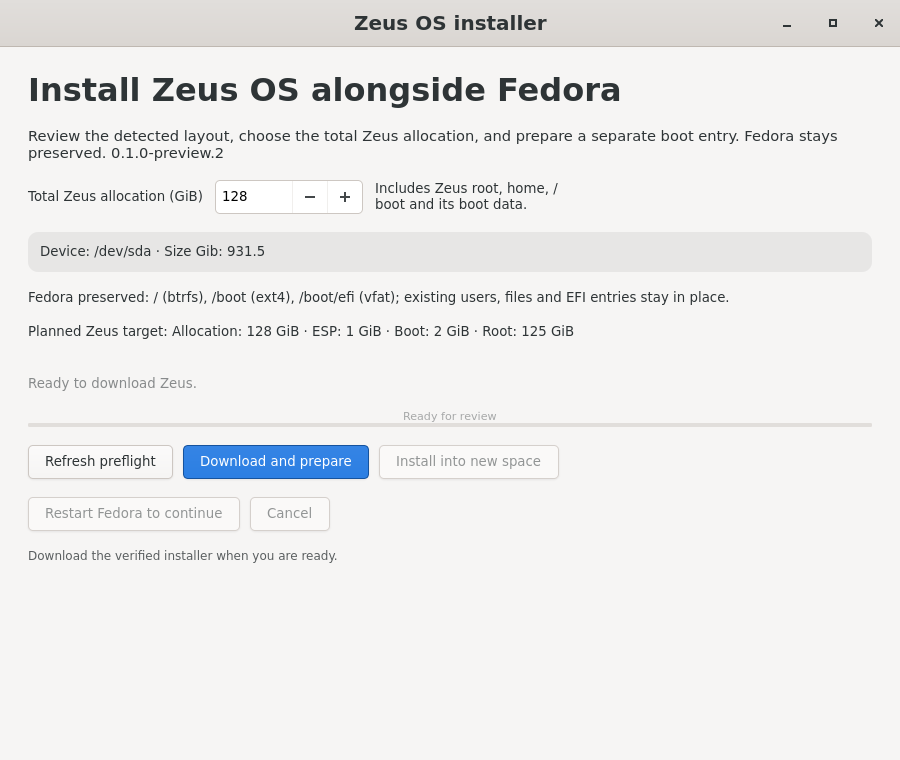
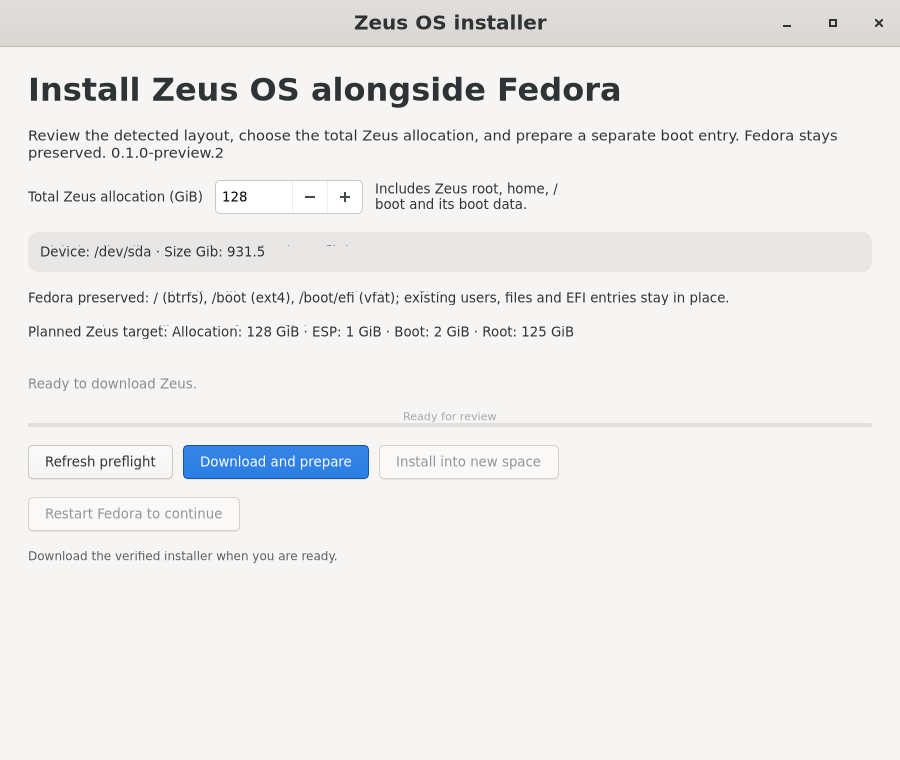
Hide unsupported installer cancellation and require explicit acceptance

diff --git a/installer/zeus_installer/gui.py b/installer/zeus_installer/gui.py
@@ -582,17 +582,28 @@ class InstallerController:
             raise InstallerError(_safe_text(message, "The backend refused to restart."))
         return result
 
+    def supports_cancel(self) -> bool:
+        backend = self.backend_module if self.backend_module is not None else _load_backend_module()
+        return backend is not None and _backend_function(backend, ("cancel",)) is not None
+
     def cancel(self) -> Any:
         """Request cancellation only through an explicitly provided backend API."""
 
         backend = self.backend_module if self.backend_module is not None else _load_backend_module()
         function = _backend_function(backend, ("cancel",)) if backend is not None else None
         if function is None:
-            return {"ok": True, "state": "cancel_requested", "supported": False}
+            raise InstallerError("This step cannot be cancelled. Wait for it to finish.")
         try:
             result = function()
         except Exception as error:  # pragma: no cover - backend-specific failures
             raise InstallerError("The backend could not cancel before its next safe boundary.") from error
+        if (
+            not isinstance(result, Mapping)
+            or result.get("ok") is not True
+            or result.get("supported") is False
+            or result.get("state") not in {"cancel_requested", "cancelled"}
+        ):
+            raise InstallerError("Cancellation was not accepted. Wait for the current step to finish.")
         return result
 
 
@@ -880,6 +891,7 @@ def _make_application(controller: InstallerController, gtk_parts: tuple[Any, Any
             self._cancel_button = Gtk.Button(label="Cancel")
             self._cancel_button.connect("clicked", self._cancel_clicked)
             self._cancel_button.set_sensitive(False)
+            self._cancel_button.set_visible(controller.supports_cancel())
             action_buttons.append(self._cancel_button)
             content.append(action_buttons)
 
@@ -924,7 +936,9 @@ def _make_application(controller: InstallerController, gtk_parts: tuple[Any, Any
             self._restart_button.set_sensitive(
                 not busy and controller.can_restart()
             )
-            self._cancel_button.set_sensitive(busy and controller.preparation is not None)
+            self._cancel_button.set_sensitive(
+                busy and controller.preparation is not None and controller.supports_cancel()
+            )
             if status:
                 self._status.set_text(status)
 
@@ -1167,7 +1181,7 @@ def _make_application(controller: InstallerController, gtk_parts: tuple[Any, Any
             except InstallerError as error:
                 self._status.set_text(str(error))
                 return
-            self._status.set_text("Cancellation requested at the backend's next safe boundary.")
+            self._status.set_text("Cancellation requested. Wait for the current step to stop safely.")
 
     class InstallerApplication(application_type):
         def __init__(self) -> None:

diff --git a/tests/test_installer_launcher.py b/tests/test_installer_launcher.py
@@ -164,6 +164,27 @@ class LauncherCliTests(unittest.TestCase):
 
 
 class ControllerGateTests(unittest.TestCase):
+    def test_unavailable_cancellation_is_not_offered_or_reported_as_requested(self):
+        controller = gui.InstallerController(backend_module=types.SimpleNamespace())
+        self.assertFalse(controller.supports_cancel())
+        with self.assertRaisesRegex(InstallerError, "cannot be cancelled"):
+            controller.cancel()
+
+    def test_cancellation_requires_an_explicit_acceptance(self):
+        for response in (None, {}, {"ok": False}, {"ok": True, "state": "cancel_requested", "supported": False}):
+            controller = gui.InstallerController(
+                backend_module=types.SimpleNamespace(cancel=lambda: response)
+            )
+            with self.subTest(response=response), self.assertRaisesRegex(InstallerError, "not accepted"):
+                controller.cancel()
+        controller = gui.InstallerController(
+            backend_module=types.SimpleNamespace(
+                cancel=lambda: {"ok": True, "state": "cancel_requested"}
+            )
+        )
+        self.assertTrue(controller.supports_cancel())
+        self.assertEqual(controller.cancel()["state"], "cancel_requested")
+
     def _worker(self):
         return types.SimpleNamespace(
             collect=lambda: {"fixture": True},

diff --git a/docs/metrics.md b/docs/metrics.md
@@ -721,3 +721,15 @@ or battery-hours from VM counters.
   packaging tests passed again after including the license in the source tar.
 - Evidence: [dated installer record](iterations/installer-20260910/README.md).
   The idle VM116 builder was gracefully stopped after its probes finished.
+
+### 2026-09-10 14:38 UTC — installer final UI correction
+
+- The launcher now hides cancellation when its backend does not support it.
+  Unsupported or rejected cancellation cannot be reported as accepted.
+- All 123 installer tests pass, including two cancellation acceptance tests.
+  The earlier CI-only FIFO fixture directory assumption was also corrected;
+  both homelab runner jobs passed afterward.
+- The RPM installs through Fedora DNF and passes `rpm -V`; its fixed helper
+  reads the completed journal and verifies the installed GPT before restart.
+  Distribution uses detached SSH-signed checksums and an independent public
+  download check. This does not add native RPM OpenPGP signing.

diff --git a/installer/README.md b/installer/README.md
@@ -142,6 +142,10 @@ when a download or install phase completes. `cancel()` is optional and, when
 provided, is called only through the backend's documented safe-boundary
 operation.
 
+The current backend does not offer cancellation during a running operation,
+so the launcher hides that control. Review before starting and wait for each
+step to finish; do not treat closing the window as confirmation that it stopped.
+
 ## Building a downloadable package
 
 Run the packaging script from the repository root:
